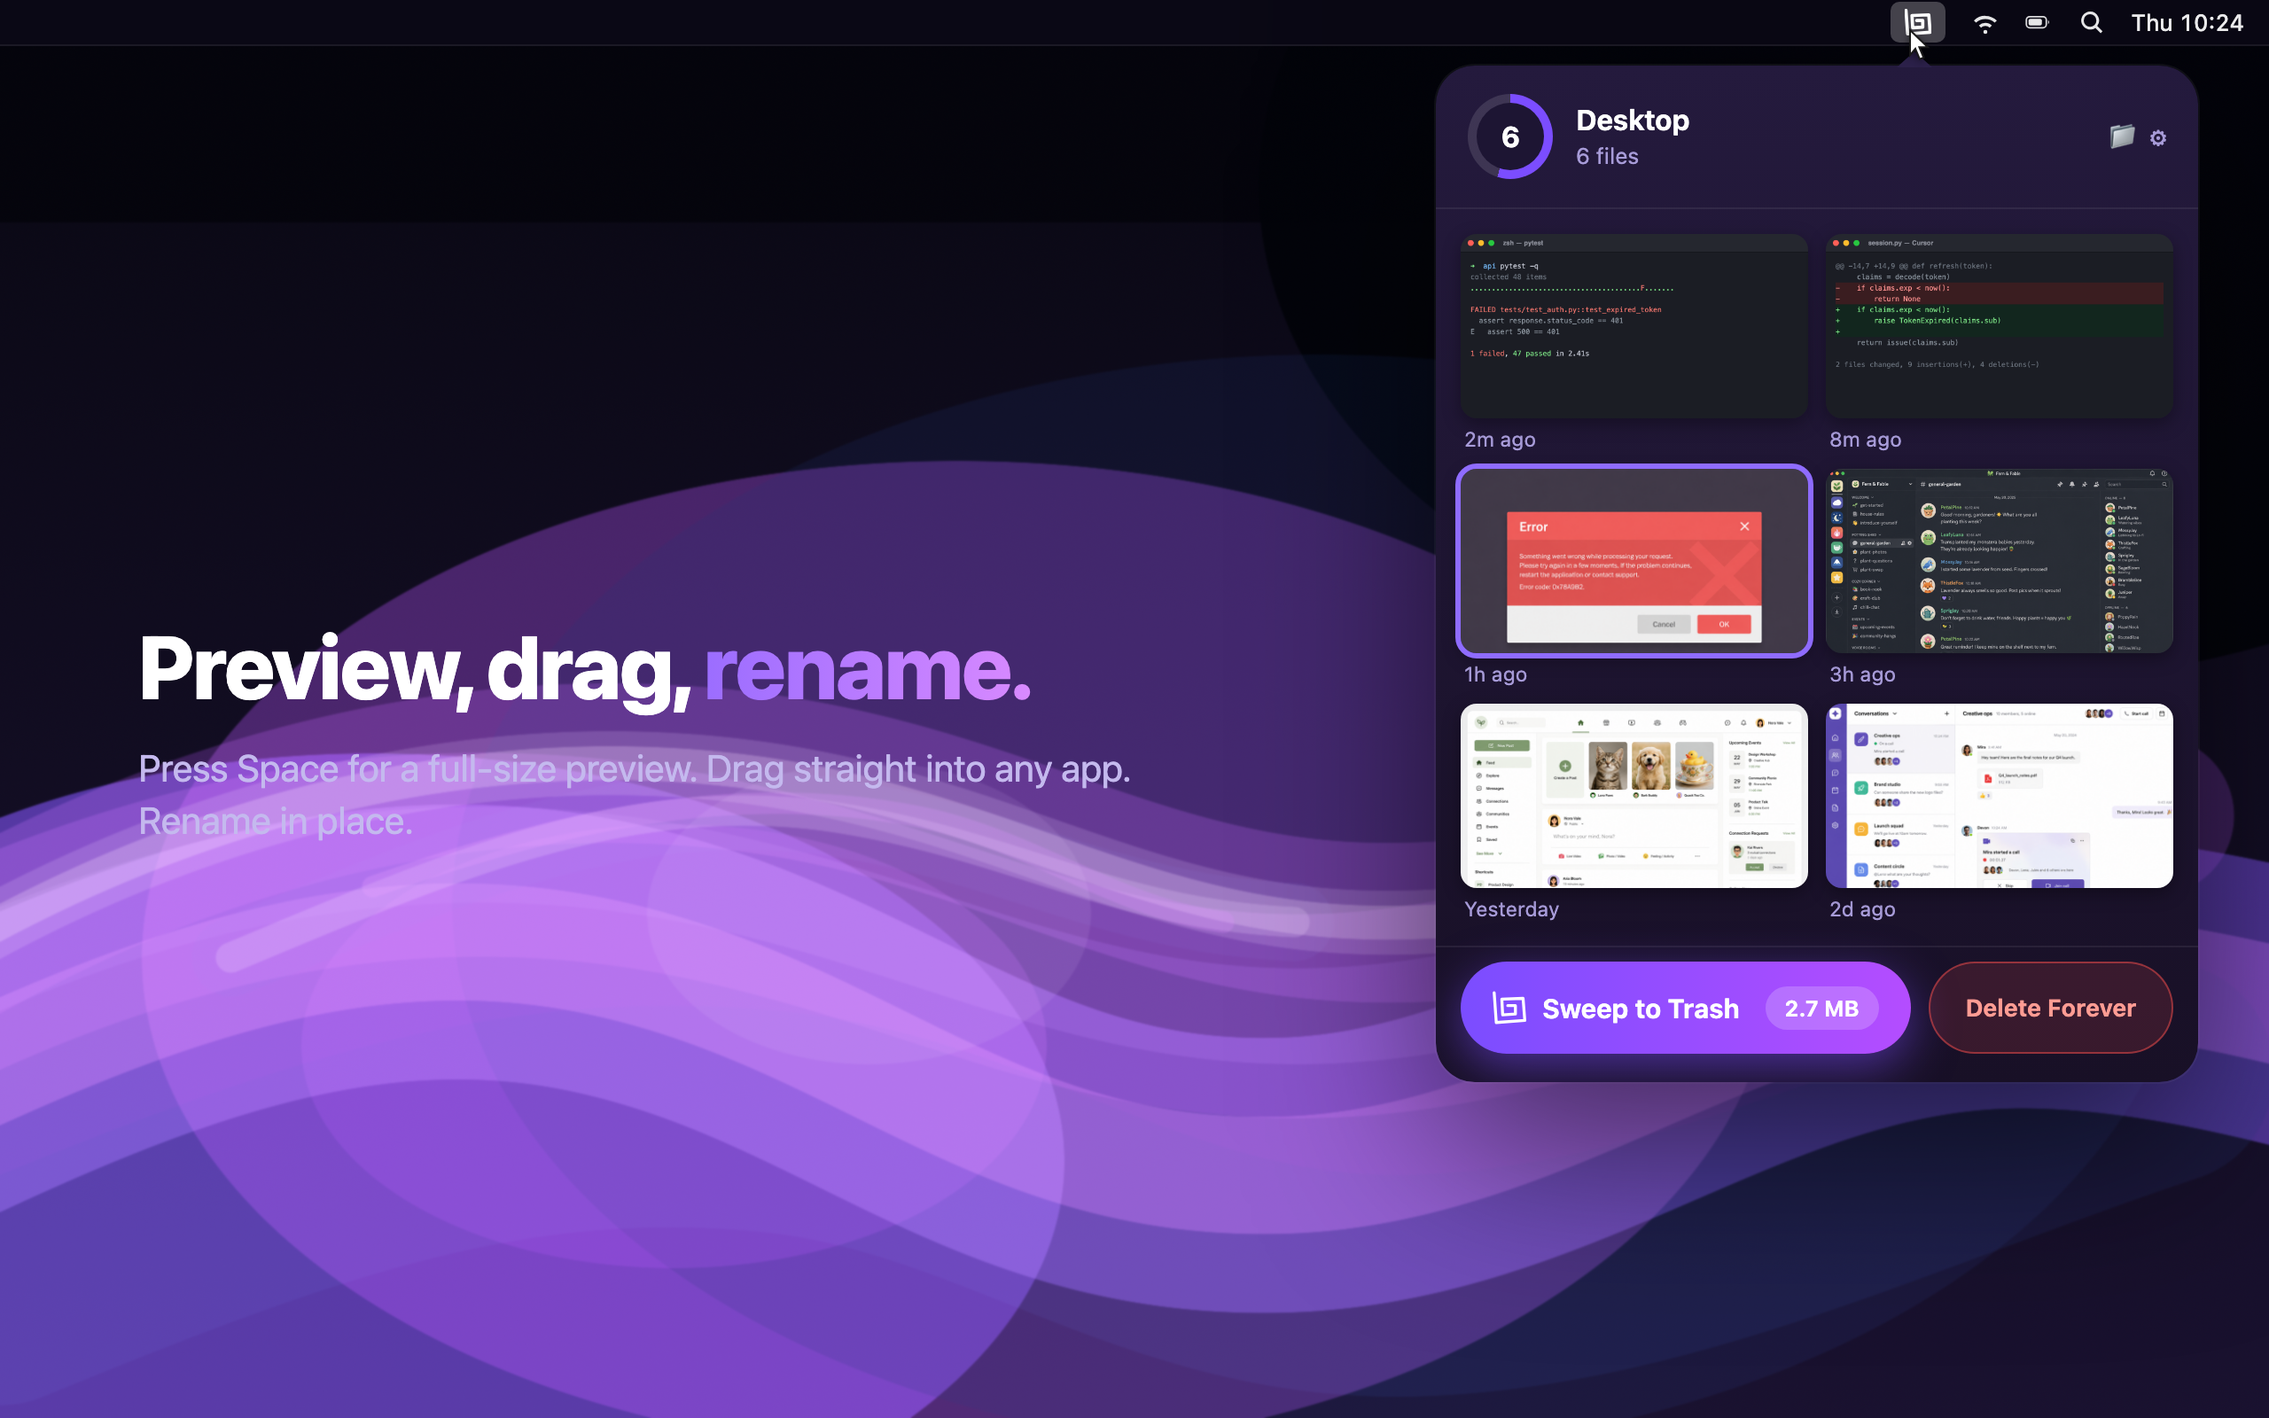
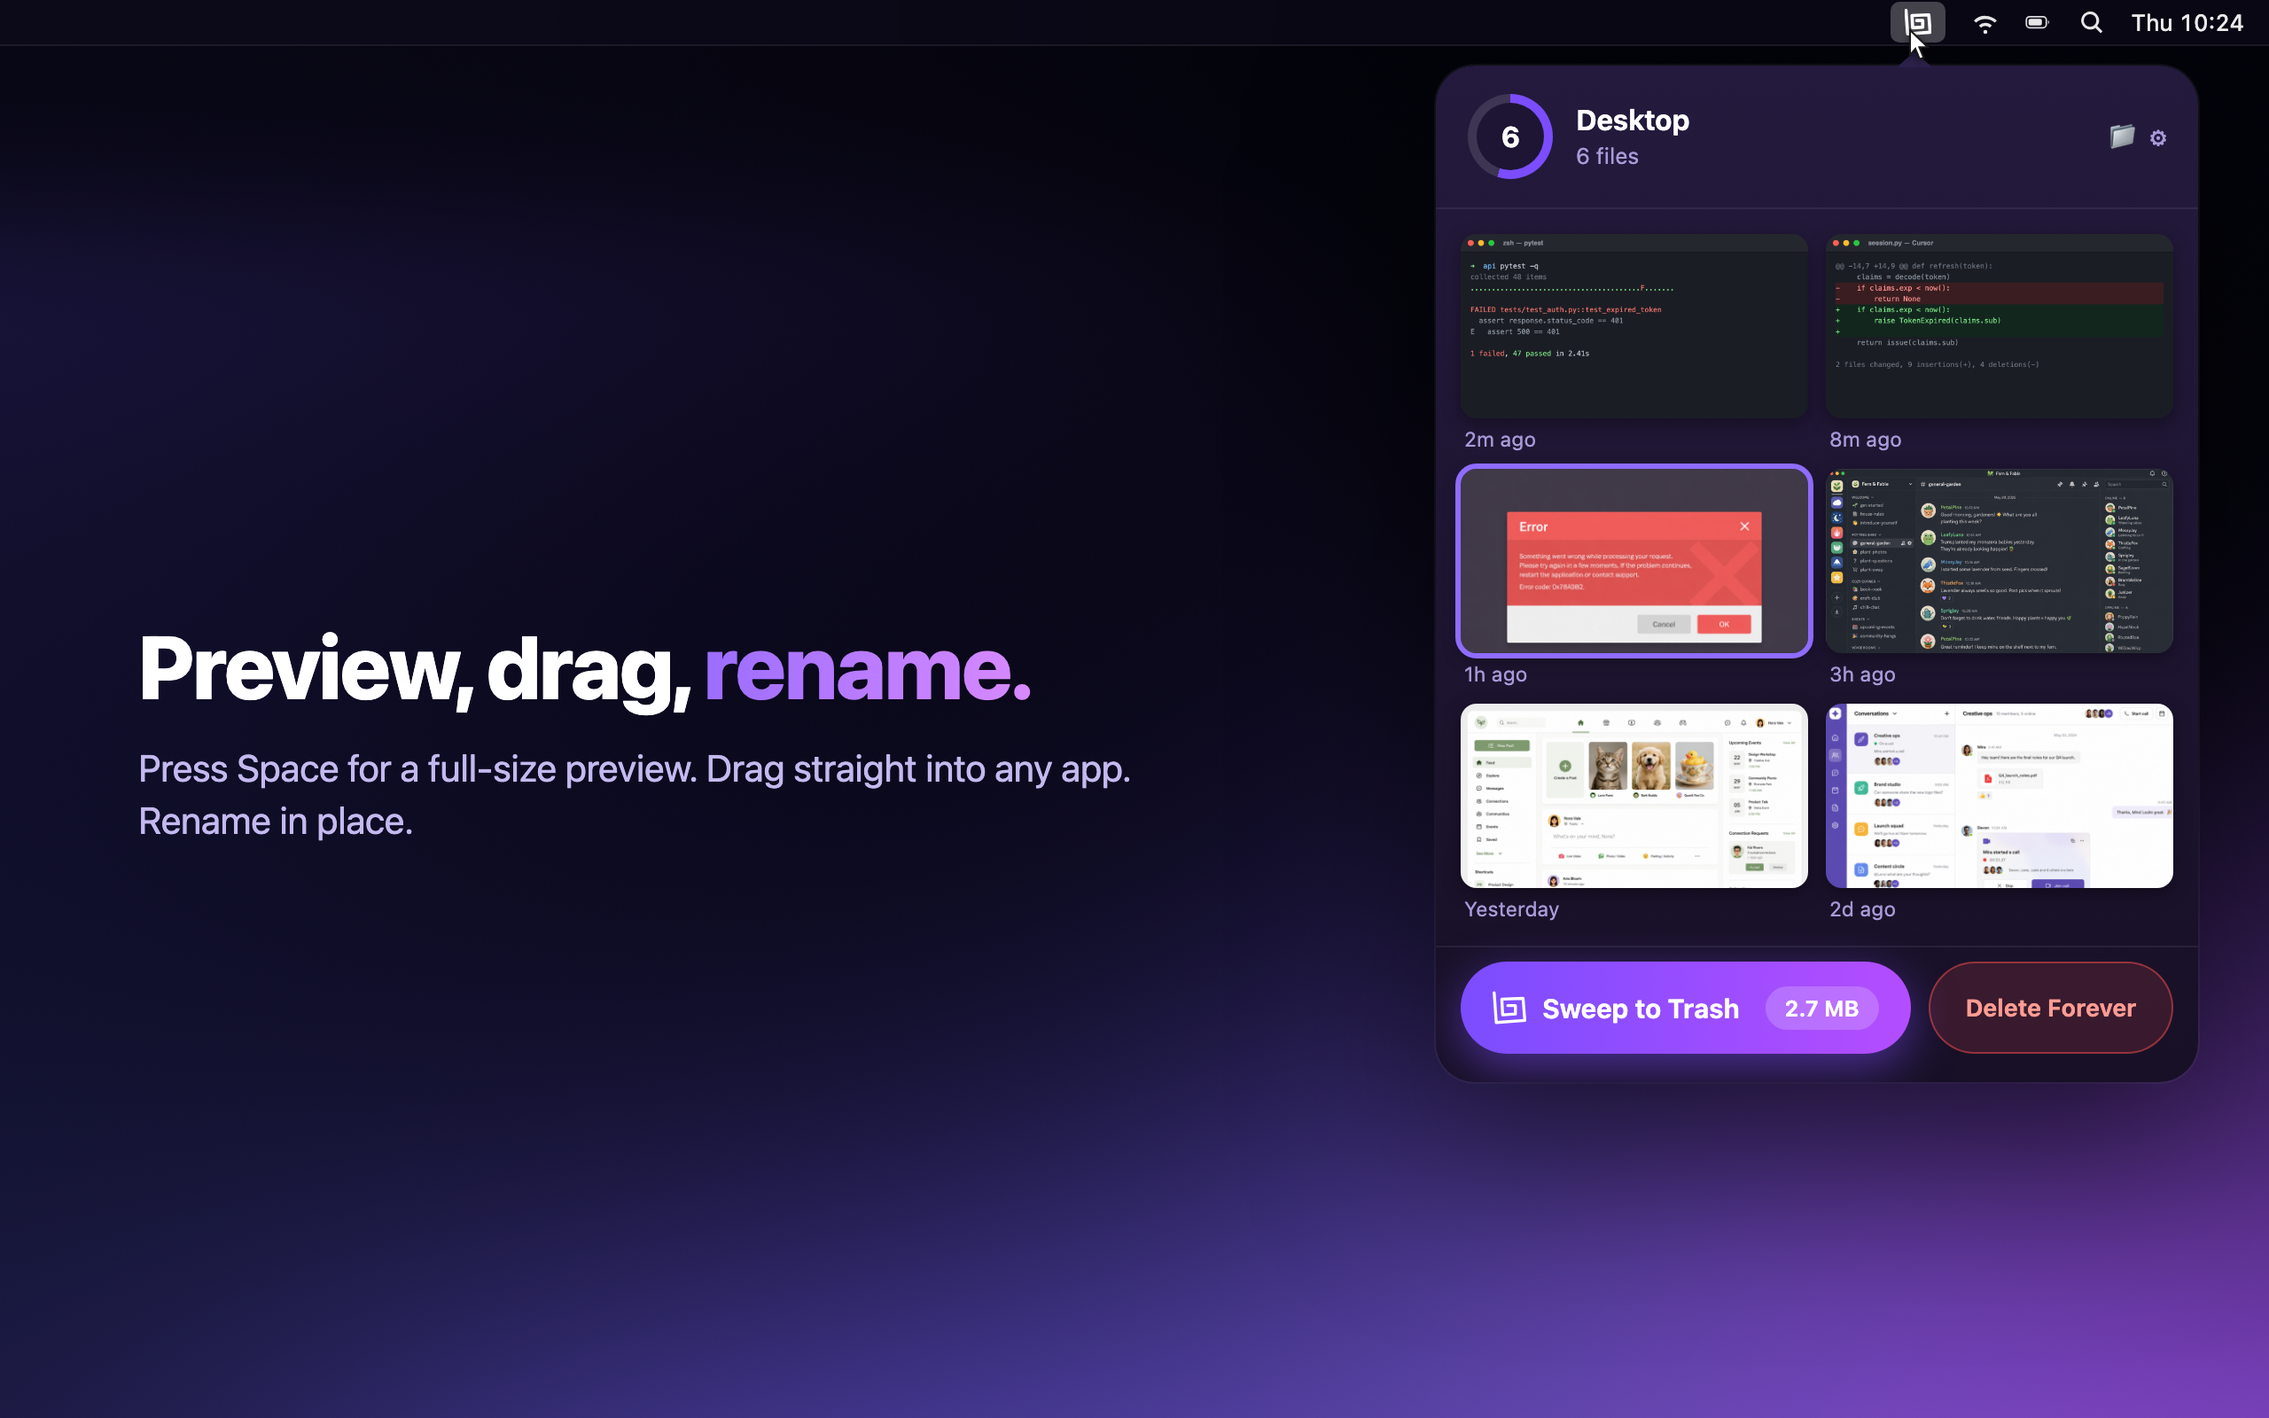
Rework the wallpaper so the headline is legible and the glow reads as light
Two faults, one of them measurable rather than a matter of taste.

The brightest violet bloom was centred at x=420, directly beneath the
headline, and .head h1 em is a #9b6dff->#d98aff gradient: same hue and
similar lightness, so the emphasised words sank into the background.
Colour now lives bottom-right, and a dedicated dark scrim over the
headline zone guarantees contrast independently of how the glow is
tuned later.

The "ribbons" were 310px-wide bezier strokes, blurred. A constant-width
stroke still reads as a tube no matter how much it is blurred, which is
what made the result look like a wireframe. Atmosphere is now built
from overlapping radial blooms at differing heights, so the crest is
uneven the way real light is, with a cool wash keeping the dark left
side from going to a flat black hole.

Blur layers now shrink, blur, and scale back up rather than running a
sigma-300 gaussian at full resolution. That took minutes and timed out;
it is now 46s, and the upscale interpolation also dithers away the
banding the full-resolution blur left across such a smooth field.

diff --git a/marketing/wallpaper_gen.py b/marketing/wallpaper_gen.py
@@ -1,84 +1,241 @@
 #!/usr/bin/env python3
-"""Render the desktop wallpaper behind the App Store marketing shots.
+"""Generate an original macOS-style abstract wallpaper for marketing screenshots.
 
-Original artwork, generated procedurally — nothing traced from or derived from Apple's
-wallpapers. Composed as a stack of soft radial blooms over a near-black violet base, so
-there are no hard stops anywhere; a single gradient with an abrupt stop reads as a seam
-across the image and instantly kills the illusion of a photographed desktop.
+COMPOSITION RULES (these are what make it read as a desktop rather than a poster):
 
-The composition is driven entirely by what sits on top of it in gen.py:
-  - The menu bar runs across the very top, so the top strip stays near-black for contrast.
-  - The panel hangs off the top-right, so that corner is darkened hard and kept empty.
-  - The headline sits mid-left over the background, so the left side stays dark enough for
-    white type to hold. The brightest bloom is pushed BELOW it, into the bottom edge, where
-    nothing overlaps.
+1. The headline sits at left:78px, width 590px, vertically centred (see gen.py's `.head`),
+   which in this 2560x1600 space is roughly x 150-1340, y 600-1000. That region is kept
+   DARK. The previous version put its brightest violet bloom at x=420, directly underneath
+   the headline, and `.head h1 em` is a #9b6dff->#d98aff gradient: same hue, similar
+   lightness, so the words disappeared into the background. Colour now lives bottom-right,
+   and a dedicated dark scrim (`make_text_scrim`) guarantees the contrast no matter how the
+   glow is retuned.
 
-Renders through headless Chrome, matching gen.py — neither Pillow nor numpy is installed
-here, and CSS gradients composite without banding for free.
+2. Atmosphere is built from wide, heavily blurred RADIAL blooms, never from stroked paths.
+   The old version drew 310px-wide bezier strokes and blurred them; a constant-width stroke
+   still reads as a tube however much you blur it, which is what made the result look like a
+   wireframe. Light has no constant width.
 
-Output: assets/wallpaper.png at 2560x1600 (1280x800 logical @2x).
-"""
-import subprocess, pathlib
+3. The app panel occupies roughly x 1630-2510, y 70-1220. Glow is kept below and around it
+   so the panel edge stays crisp against a darker field.
 
-OUT = pathlib.Path(__file__).parent
-CHROME = "/Applications/Google Chrome.app/Contents/MacOS/Google Chrome"
-
-BASE = "#100d1e"        # near-black violet the whole image sits on
-GLOW = "123,77,255"     # #7B4DFF — the app's signature violet
-LIFT = "180,77,255"     # #B44DFF — its lighter partner, used sparingly
-
-# Ordered front to back, the way CSS composites multiple backgrounds. Every layer fades to
-# transparent well inside its own bounds so nothing ever meets an edge abruptly.
-LAYERS = [
-    # Darkening passes, listed first so they sit ON TOP of the color.
-    "linear-gradient(180deg, rgba(4,3,10,.92) 0%, rgba(4,3,10,.55) 9%, rgba(4,3,10,0) 26%)",
-    "radial-gradient(ellipse 62% 78% at 101% -8%, rgba(4,3,10,.82) 0%, rgba(4,3,10,.35) 45%, rgba(4,3,10,0) 72%)",
-    "radial-gradient(ellipse 85% 60% at 50% 46%, rgba(4,3,10,.30) 0%, rgba(4,3,10,0) 68%)",
-    # Light. The big bloom is low and left; a smaller one balances it centre-right.
-    f"radial-gradient(ellipse 62% 52% at 16% 104%, rgba({GLOW},.62) 0%, rgba({GLOW},.22) 42%, rgba({GLOW},0) 72%)",
-    f"radial-gradient(ellipse 46% 34% at 62% 116%, rgba({LIFT},.42) 0%, rgba({LIFT},0) 70%)",
-    "radial-gradient(ellipse 34% 46% at -6% 62%, rgba(96,64,210,.38) 0%, rgba(96,64,210,0) 70%)",
-    f"radial-gradient(ellipse 40% 26% at 84% 88%, rgba({GLOW},.20) 0%, rgba({GLOW},0) 72%)",
-    # A faint cool cast up top keeps the dark half from going flat grey.
-    "radial-gradient(ellipse 70% 40% at 34% 8%, rgba(58,44,132,.30) 0%, rgba(58,44,132,0) 70%)",
-    BASE,
-]
-
-# Two blurred ribbons give the flow that pure radials can't — without them the result reads
-# as a vignette rather than a wallpaper. Blurred far past their own size so no edge survives.
-RIBBONS = """
-.ribbon { position:absolute; border-radius:50%; filter:blur(90px); mix-blend-mode:screen; }
-.r1 { left:-14%; top:58%; width:86%; height:30%; background:rgba(123,77,255,.34); transform:rotate(-13deg); }
-.r2 { left:26%;  top:80%; width:70%; height:24%; background:rgba(180,77,255,.22); transform:rotate(-6deg); }
-.r3 { left:-8%;  top:34%; width:44%; height:16%; background:rgba(96,64,210,.20); transform:rotate(-18deg); }
+The renderer is ImageMagick, which keeps the script self-contained even without Pillow or
+NumPy in the environment.
 """
 
-# feTurbulence grain. Large flat gradients band visibly on a retina panel; a couple of
-# percent of noise breaks the bands up without reading as texture.
-GRAIN = """<svg class="grain" xmlns="http://www.w3.org/2000/svg">
-  <filter id="n"><feTurbulence type="fractalNoise" baseFrequency="0.8" numOctaves="3" stitchTiles="stitch"/>
-  <feColorMatrix type="saturate" values="0"/></filter>
-  <rect width="100%" height="100%" filter="url(#n)"/></svg>"""
+from __future__ import annotations
 
-HTML = f"""<!DOCTYPE html><html><head><meta charset='utf-8'><style>
-* {{ margin:0; padding:0; }}
-html,body {{ width:1280px; height:800px; overflow:hidden; }}
-body {{ position:relative; background:{', '.join(LAYERS)}; }}
-{RIBBONS}
-.grain {{ position:absolute; inset:0; width:100%; height:100%; opacity:.035; pointer-events:none; }}
-</style></head><body>
-<div class="ribbon r3"></div><div class="ribbon r1"></div><div class="ribbon r2"></div>
-{GRAIN}
-</body></html>"""
+import pathlib
+import shutil
+import subprocess
+import tempfile
+
+
+WIDTH = 2560
+HEIGHT = 1600
+
+# Tuning knobs.
+BASE_TOP = "#07060f"
+BASE_BOTTOM = "#160f2b"
+VIOLET = "#7B4DFF"
+MAGENTA = "#B44DFF"
+DEEP_BLUE = "#142b66"
+EMBER = "#d7b7ff"
+
+TOP_FADE_ALPHA = 0.84
+TOP_RIGHT_ALPHA = 0.95
+# How hard the headline area is protected. Raise if copy ever moves or grows.
+TEXT_SCRIM_ALPHA = 0.62
+# Grain does double duty: texture, and dithering away the banding that 8-bit gradients
+# show across a field this large and this smooth.
+GRAIN_STRENGTH = 0.022
+
+OUT = pathlib.Path(__file__).with_name("assets") / "wallpaper.png"
+
+
+def chromeless_magick() -> str:
+    candidates = [shutil.which("magick"), shutil.which("convert")]
+    for candidate in candidates:
+        if candidate and pathlib.Path(candidate).exists():
+            return candidate
+    raise FileNotFoundError("Could not find an ImageMagick binary for rendering.")
+
+
+def run_magick(*args: object) -> None:
+    subprocess.run(
+        [chromeless_magick(), *map(str, args)],
+        check=True,
+        stdout=subprocess.DEVNULL,
+        stderr=subprocess.DEVNULL,
+    )
+
+
+def rgba(hex_color: str, alpha: float) -> str:
+    h = hex_color.lstrip("#")
+    a = max(0, min(255, round(alpha * 255)))
+    return f"#{h}{a:02X}"
+
+
+def ellipse(cx: int, cy: int, rx: int, ry: int) -> str:
+    return f"ellipse {cx},{cy} {rx},{ry} 0,360"
+
+
+# Blurs this wide are the whole point of the look, but a sigma-300 gaussian across
+# 2560x1600 takes minutes and still bands. Shrinking first, blurring in the small space,
+# then scaling back up is both far faster and SMOOTHER: the upscale interpolates, which
+# dithers away the terracing a full-resolution blur leaves behind.
+BLUR_SCALE = 8
+
+
+def soft(path: pathlib.Path, sigma: float, *draw_args: object) -> None:
+    """Draw shapes at full size, then blur them via the shrink/grow trick."""
+    small_w, small_h = WIDTH // BLUR_SCALE, HEIGHT // BLUR_SCALE
+    run_magick(
+        "-size", f"{WIDTH}x{HEIGHT}", "xc:none",
+        *draw_args,
+        "-resize", f"{small_w}x{small_h}!",
+        "-blur", f"0x{sigma / BLUR_SCALE:.2f}",
+        "-resize", f"{WIDTH}x{HEIGHT}!",
+        path,
+    )
+
+
+def make_base(path: pathlib.Path) -> None:
+    # A restrained top-to-bottom base gradient keeps the top strip dark enough for menu bar text.
+    run_magick("-size", f"{WIDTH}x{HEIGHT}", f"gradient:{BASE_TOP}-{BASE_BOTTOM}", path)
+
+
+def make_top_fade(path: pathlib.Path) -> None:
+    soft(
+        path, 80,
+        "-fill", rgba("#04040b", TOP_FADE_ALPHA),
+        "-draw", f"rectangle 0,0 {WIDTH},250",
+    )
+
+
+def make_top_right_shadow(path: pathlib.Path) -> None:
+    soft(
+        path, 150,
+        "-fill", rgba("#03040a", TOP_RIGHT_ALPHA),
+        "-draw", ellipse(2240, 210, 820, 560),
+        "-fill", rgba("#04040b", 0.74),
+        "-draw", ellipse(2460, 120, 560, 360),
+    )
+
+
+def make_glow(path: pathlib.Path) -> None:
+    """The colour field: a low aurora sitting along the bottom-right.
+
+    Every centre is at or below y=1400 and right of x=1050, so the light rises INTO frame
+    from beneath rather than blooming behind the headline. Radii are deliberately enormous
+    relative to the canvas; that plus the 300px blur is what separates 'atmosphere' from
+    'a shape someone drew'.
+    """
+    soft(
+        path, 300,
+        # Main violet mass. Centre sits well below the frame so only its dim outer falloff
+        # is visible: pushing the hot core off-canvas is what stops the bottom edge looking
+        # like a bright strip that got cropped.
+        "-fill", rgba(VIOLET, 0.68),
+        "-draw", ellipse(1500, 1880, 1220, 700),
+        # Three offset lobes at differing heights. A single ellipse gives a perfect arc,
+        # which reads as geometry; overlapping lobes give the uneven crest real aurorae have.
+        "-fill", rgba(VIOLET, 0.30),
+        "-draw", ellipse(980, 1780, 700, 520),
+        "-fill", rgba(MAGENTA, 0.34),
+        "-draw", ellipse(1980, 1810, 820, 560),
+        "-fill", rgba(MAGENTA, 0.22),
+        "-draw", ellipse(2420, 1640, 620, 420),
+        # A dimmer, higher band on the right, layered above the main mass so the glow has
+        # depth rather than being one wall of light.
+        "-fill", rgba(MAGENTA, 0.16),
+        "-draw", ellipse(2020, 1320, 700, 300),
+        # Cool counterweight so the field is not a single flat hue.
+        "-fill", rgba(DEEP_BLUE, 0.40),
+        "-draw", ellipse(1150, 1520, 780, 460),
+        "-fill", rgba(DEEP_BLUE, 0.24),
+        "-draw", ellipse(1720, 1400, 560, 300),
+        # Small bright core, keeps the aurora from reading as uniform haze.
+        "-fill", rgba(EMBER, 0.12),
+        "-draw", ellipse(1700, 1700, 420, 240),
+    )
+
+
+def make_far_accent(path: pathlib.Path) -> None:
+    """A whisper of violet in the upper left.
+
+    Without this the left half is dead flat once the scrim lands. Alpha is kept very low:
+    it is there to stop the corner reading as empty, not to be noticed.
+    """
+    soft(
+        path, 320,
+        # Upper-left violet. Enough to keep the corner alive under the scrim, not enough to
+        # compete with the headline that sits just below it.
+        "-fill", rgba(VIOLET, 0.26),
+        "-draw", ellipse(180, 300, 900, 620),
+        "-fill", rgba(DEEP_BLUE, 0.30),
+        "-draw", ellipse(20, 820, 640, 620),
+        # A cool wash down the left edge so the darkest region still has hue in it. Pure
+        # black next to a saturated aurora reads as a hole in the image, not as depth.
+        "-fill", rgba(DEEP_BLUE, 0.20),
+        "-draw", ellipse(120, 1400, 700, 520),
+        # Faint counter-light top-right, above the panel, to balance the bottom-heavy glow.
+        "-fill", rgba(MAGENTA, 0.10),
+        "-draw", ellipse(2400, 60, 700, 420),
+    )
+
+
+def make_text_scrim(path: pathlib.Path) -> None:
+    """Darken the headline zone so the violet `em` gradient always has somewhere to sit.
+
+    Composited `over` (not `screen`) precisely so it can subtract light the glow added.
+    This is the guarantee: retune the aurora however you like, the copy stays legible.
+    """
+    soft(
+        path, 260,
+        "-fill", rgba("#050410", TEXT_SCRIM_ALPHA),
+        "-draw", ellipse(600, 800, 980, 660),
+        "-fill", rgba("#050410", 0.34),
+        "-draw", ellipse(980, 900, 700, 520),
+    )
+
+
+def composite(base: pathlib.Path, overlay: pathlib.Path, out: pathlib.Path, mode: str = "over") -> None:
+    run_magick(base, overlay, "-compose", mode, "-composite", out)
+
+
+def render() -> None:
+    OUT.parent.mkdir(parents=True, exist_ok=True)
+
+    with tempfile.TemporaryDirectory(prefix="wallpaper_gen_") as tmp:
+        tmp = pathlib.Path(tmp)
+        base = tmp / "base.png"
+        glow = tmp / "glow.png"
+        far_accent = tmp / "far_accent.png"
+        scrim = tmp / "scrim.png"
+        top_fade = tmp / "top_fade.png"
+        top_right = tmp / "top_right.png"
+        stage = [tmp / f"stage{i}.png" for i in range(1, 7)]
+
+        make_base(base)
+        make_glow(glow)
+        make_far_accent(far_accent)
+        make_text_scrim(scrim)
+        make_top_fade(top_fade)
+        make_top_right_shadow(top_right)
+
+        # Light first, then subtract it back where the copy lives, then the menu bar chrome.
+        composite(base, glow, stage[0], mode="screen")
+        composite(stage[0], far_accent, stage[1], mode="screen")
+        composite(stage[1], scrim, stage[2])
+        composite(stage[2], top_fade, stage[3])
+        composite(stage[3], top_right, stage[4])
+        run_magick(stage[4], "-attenuate", str(GRAIN_STRENGTH), "+noise", "Gaussian", OUT)
+
+
+def main() -> None:
+    render()
+
 
 if __name__ == "__main__":
-    (OUT / "assets").mkdir(exist_ok=True)
-    hp = OUT / "_wallpaper.html"
-    hp.write_text(HTML)
-    png = OUT / "assets" / "wallpaper.png"
-    subprocess.run([CHROME, "--headless=new", "--disable-gpu", "--hide-scrollbars",
-                    "--force-device-scale-factor=2", "--window-size=1280,800",
-                    f"--screenshot={png}", str(hp)],
-                   stdout=subprocess.DEVNULL, stderr=subprocess.DEVNULL, check=True)
-    hp.unlink()
-    print(f"rendered {png}")
+    main()
